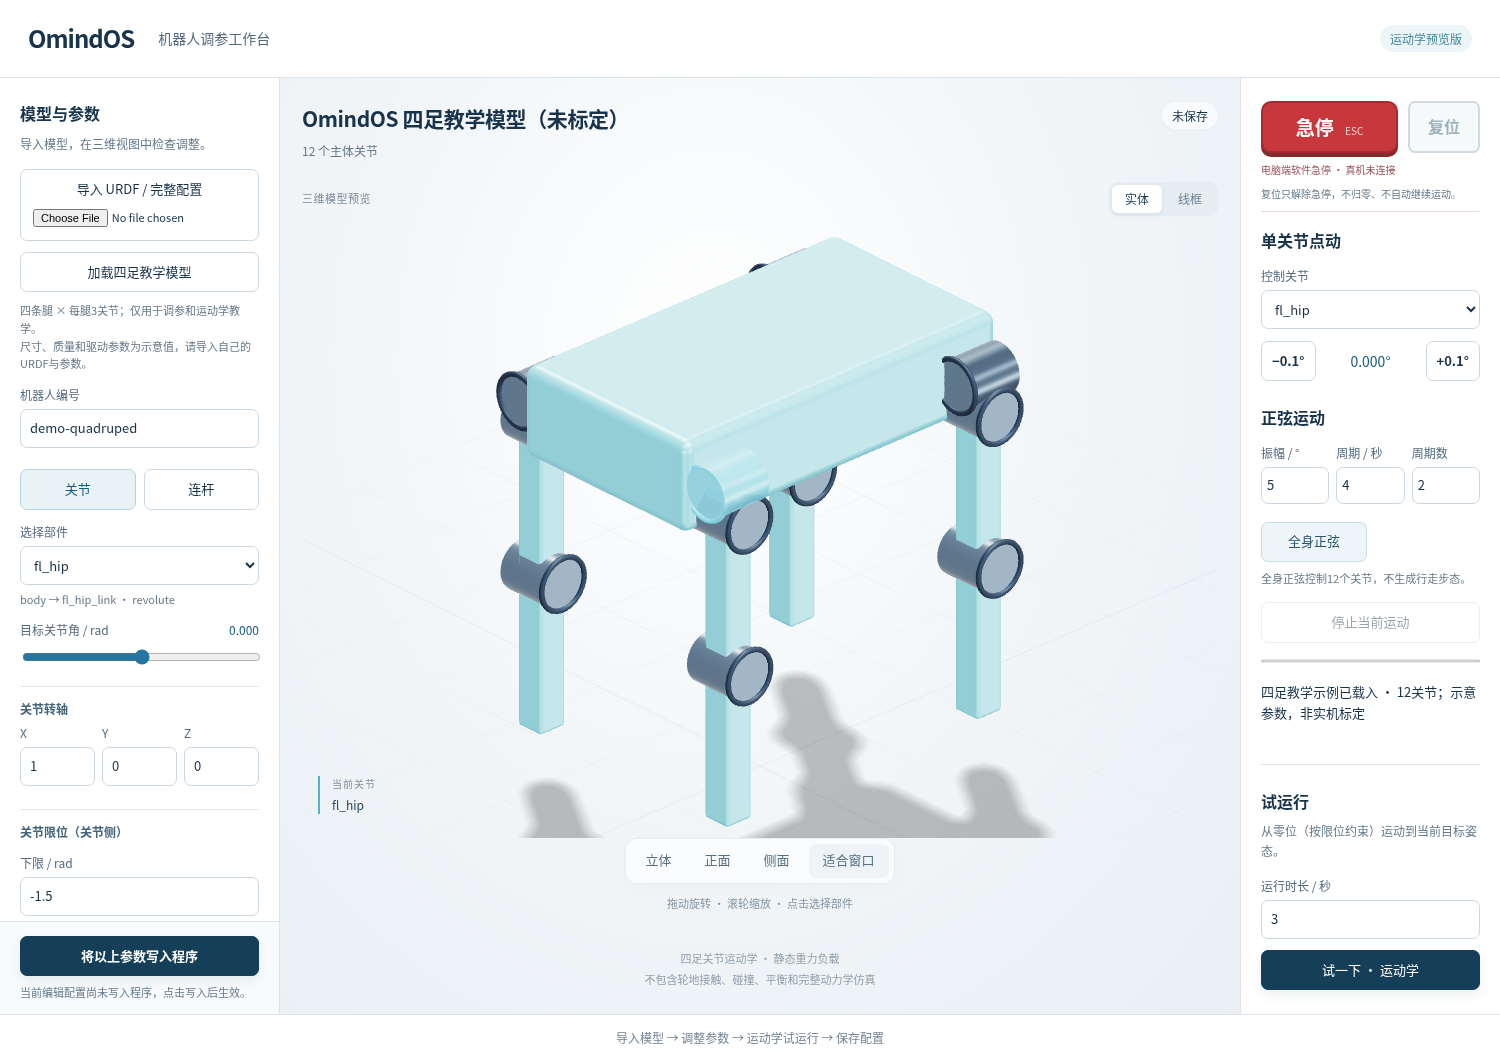
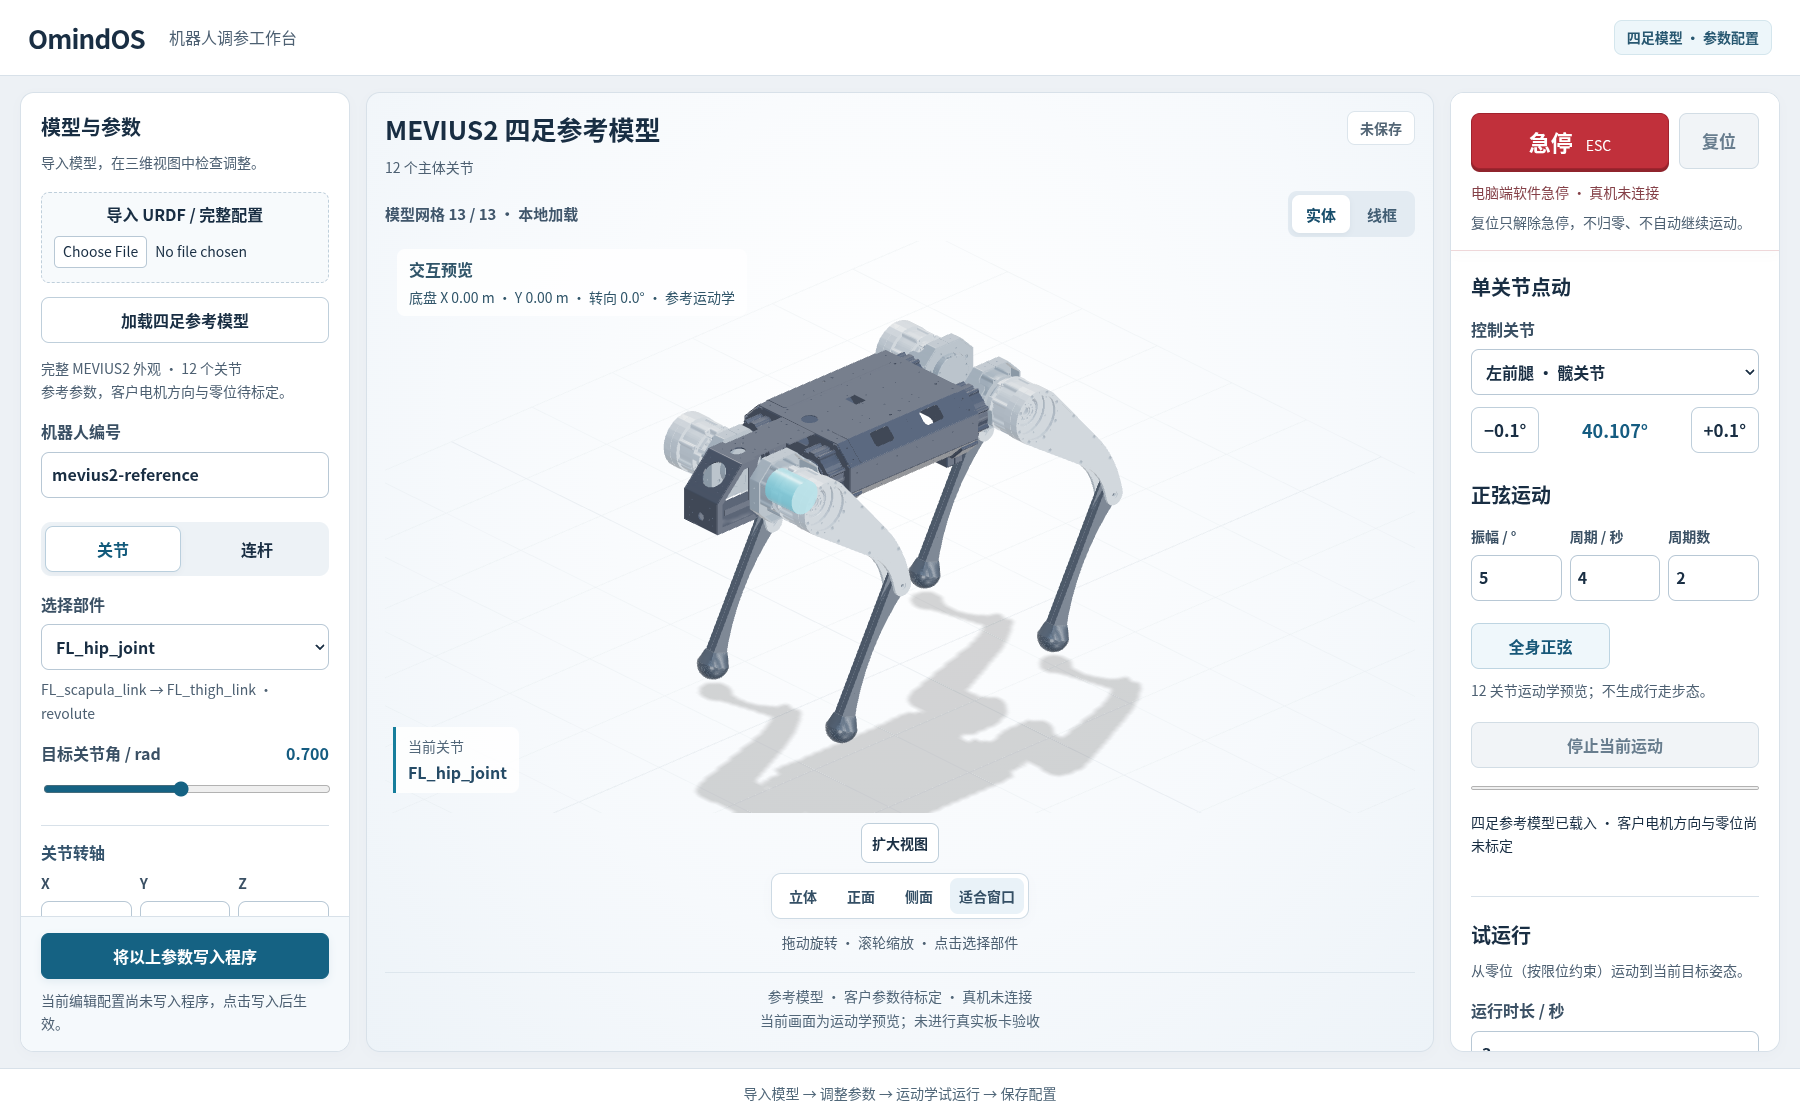
docs: show complete quadruped reference workbench in the Ubuntu download guide (#2)

diff --git a/docs/WORKBENCH_USAGE.zh-CN.md b/docs/WORKBENCH_USAGE.zh-CN.md
@@ -10,9 +10,9 @@
 
 ## 界面怎么分？
 
-![公开工作台加载四足教学模型的实际界面](media/quadruped-workbench.png)
+![Ubuntu 工作台开发预览：完整四足参考模型](media/quadruped-workbench.png)
 
-图为公开轻量工作台的四足教学模型。完整包提供同类参数与预览界面；机器人外观和关节列表以导入的 URDF 为准。
+图为新版 Ubuntu 工作台的实际开发预览，加载 MEVIUS2 完整外观参考模型（12 个关节）。当前下载包尚未包含这次界面更新。机器人外观与关节列表以导入的 URDF 为准，客户参数须按实际硬件标定。
 
 | 区域 | 用途 |
 | --- | --- |
@@ -24,7 +24,7 @@
 
 点击左侧 **“导入 URDF / 完整配置”**，选择 `.urdf` / `.xml` 或工作台导出的 `.json`。URDF 描述连杆、关节、转轴、连接位置和限位；完整 JSON 还可包含电机参数。两种文件上限均为 2 MiB。
 
-导入 URDF 后，电机参数仍需按实际硬件填写。建议修改机器人编号，区分自己的机器人与教学示例。
+导入 URDF 后，电机参数仍需按实际硬件填写。建议修改机器人编号，区分自己的机器人与参考模型。
 
 ## 2. 编辑关节和电机
 
@@ -48,7 +48,7 @@
 
 - 修改**外形尺寸**改变显示几何；关节间的**连接距离**在关节页调整。
 - 修改尺寸或质量后，惯量需要重新计算并填写；系统不会自动猜测质量分布。
-- 使用厂家 URDF / 参数或实测数据；教学示例不是客户机器人标定结果。
+- 使用厂家 URDF / 参数或实测数据；参考模型不是客户机器人标定结果。
 
 ## 4. 写入、保存和备份
 

diff --git a/README.md b/README.md
@@ -22,9 +22,11 @@
 
 ## 工作台长什么样？
 
-![公开工作台加载四足教学模型后的实际运行界面](docs/media/quadruped-workbench.png)
+![Ubuntu 工作台开发预览：完整四足参考模型](docs/media/quadruped-workbench.png)
 
-**左侧改参数，中间看三维模型，右侧点动、试运行和保存版本。** 图为公开轻量工作台加载 12 关节教学模型；完整包提供同类调参界面，显示的机器人由导入的 URDF 决定。
+**左侧改参数，中间看三维模型，右侧点动、试运行和保存版本。** 图为新版 Ubuntu 工作台的实际开发预览，使用 MEVIUS2 完整外观参考模型与 12 个关节。可导入自己的 URDF 与参数。
+
+当前下载包尚未包含这次界面更新；参考模型不是客户机器人的标定结果，真机未验收。
 
 ## 自己的参数怎么改？
 
